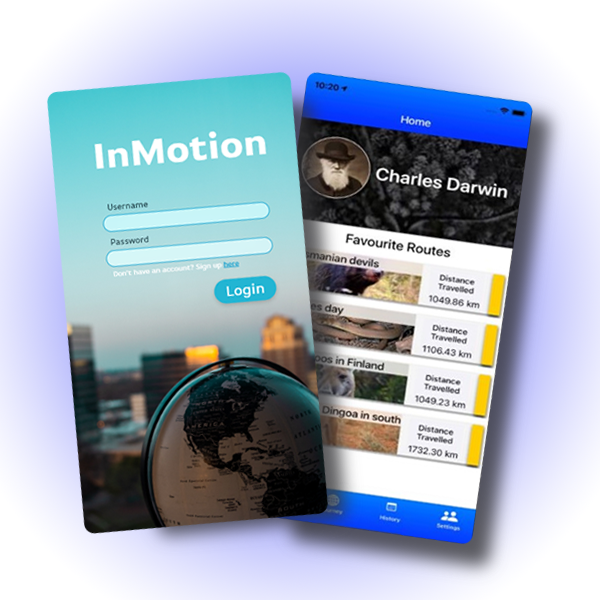
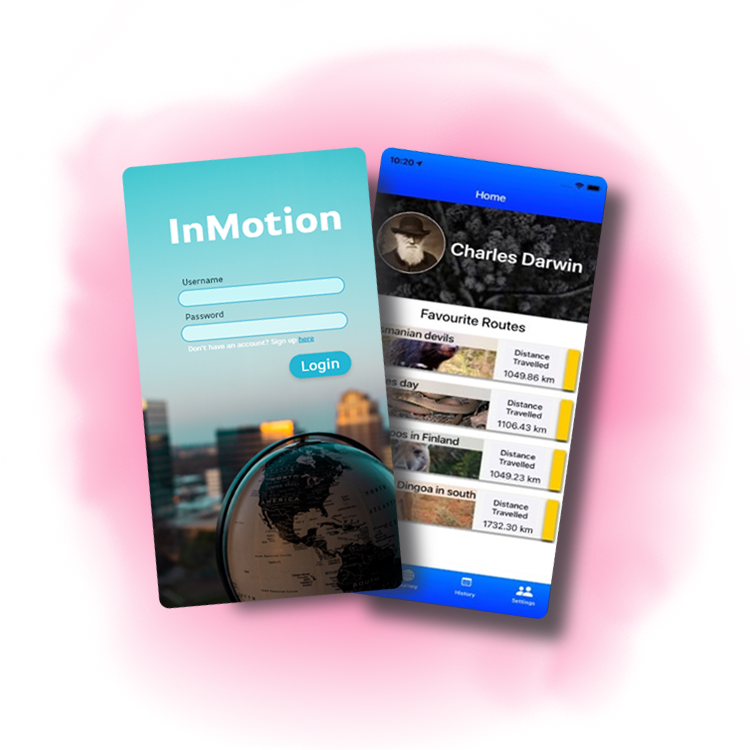
added inMotion image

diff --git a/index.html b/index.html
@@ -196,11 +196,9 @@
           </ul>
         </div>
         <div class="image-container">
-          <img class="img1" src="./assets/image/Booksy.jpeg" loading="lazy" />
-          <div class="shadow-layer"></div>
           <img
-            class="img2"
-            src="./assets/image/LingoKnight.PNG"
+            class="img1"
+            src="./assets/image/InMotion/inMotion-1-large-background.png"
             loading="lazy"
           />
         </div>
@@ -224,11 +222,9 @@
           </ul>
         </div>
         <div class="image-container">
-          <img class="img1" src="./assets/image/Booksy.jpeg" loading="lazy" />
-
           <img
-            class="img2"
-            src="./assets/image/LingoKnight.PNG"
+            class="img1"
+            src="./assets/image/InMotion/inMotion-1-large-background.png"
             loading="lazy"
           />
         </div>
@@ -255,11 +251,9 @@
           </ul>
         </div>
         <div class="image-container">
-          <img class="img1" src="./assets/image/Booksy.jpeg" loading="lazy" />
-
           <img
-            class="img2"
-            src="./assets/image/LingoKnight.PNG"
+            class="img1"
+            src="./assets/image/InMotion/inMotion-1-large-background.png"
             loading="lazy"
           />
         </div>
@@ -286,15 +280,12 @@
           </ul>
         </div>
         <div class="image-container">
-          <img class="img1" src="./assets/image/Booksy.jpeg" loading="lazy" />
-
           <img
-            class="img2"
-            src="./assets/image/LingoKnight.PNG"
+            class="img1"
+            src="./assets/image/InMotion/inMotion-1-large-background.png"
             loading="lazy"
           />
         </div>
-      </div>
     </section>
     <section class="education-container background-image" id="my-education">
       <h2 class="section-header">My Education</h2>

diff --git a/css/main.css b/css/main.css
@@ -695,7 +695,6 @@ h5 {
   width: fit-content;
   max-width: 500px;
   margin: 2rem 2rem;
-  padding: 2rem;
   justify-content: center;
   align-items: center;
   justify-self: center;
@@ -704,15 +703,26 @@ h5 {
 .image-container img {
   width: 100%;
   height: auto;
-  max-height: 600px;
   object-fit: fill;
-  max-width: 500px;
+}
+
+@media (min-width: 576px) {
+  .image-container {
+    min-width: 500px;
+  }
 }
 
 @media (min-width: 992px) {
   .image-container {
     margin: 0rem 0rem;
     justify-self: flex-end;
+    max-width: 800px;
+  }
+}
+
+@media (min-width: 1800px) {
+  .image-container {
+    min-width: 800px;
   }
 }
 

diff --git a/css/main.scss b/css/main.scss
@@ -733,7 +733,6 @@ h5 {
   width: fit-content;
   max-width: 500px;
   margin: 2rem 2rem;
-  padding: 2rem;
   justify-content: center;
   align-items: center;
   justify-self: center;
@@ -741,14 +740,21 @@ h5 {
   img {
     width: 100%;
     height: auto;
-    max-height: 600px;
     object-fit: fill;
-    max-width: 500px;
+  }
+
+  @include sm {
+    min-width: 500px;
   }
 
   @include lg {
     margin: 0rem 0rem;
     justify-self: flex-end;
+    max-width: 800px;
+  }
+
+  @include xxl {
+    min-width: 800px;
   }
 }
 
